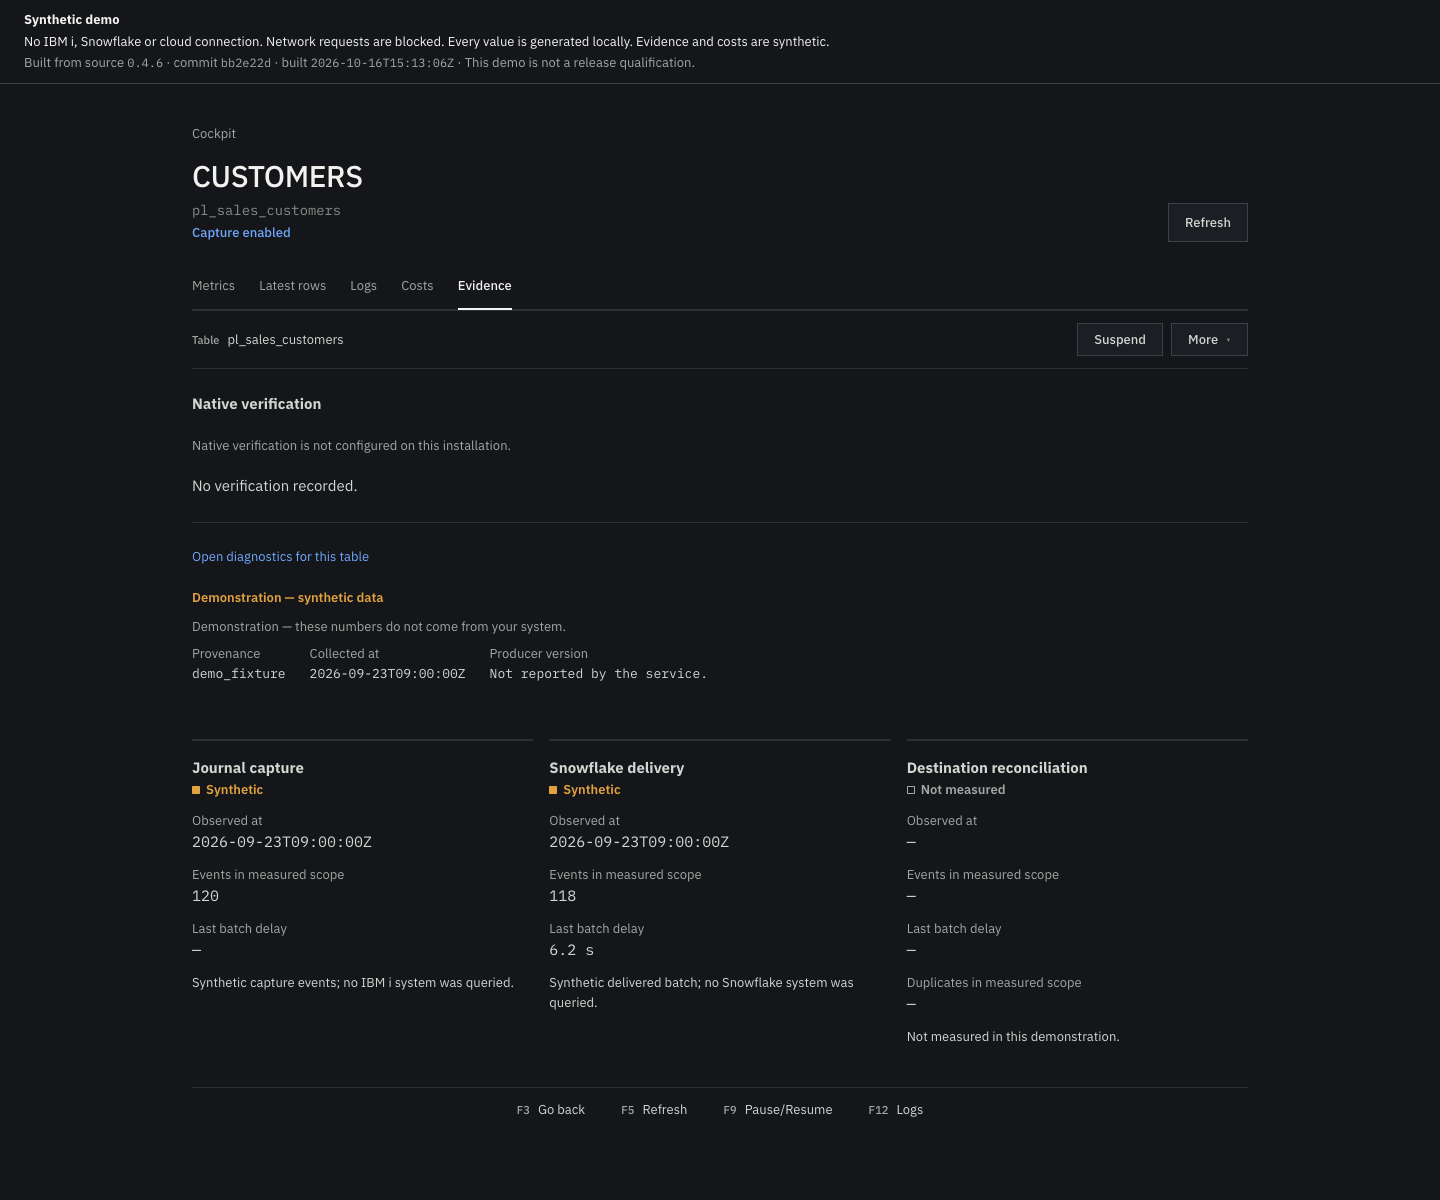
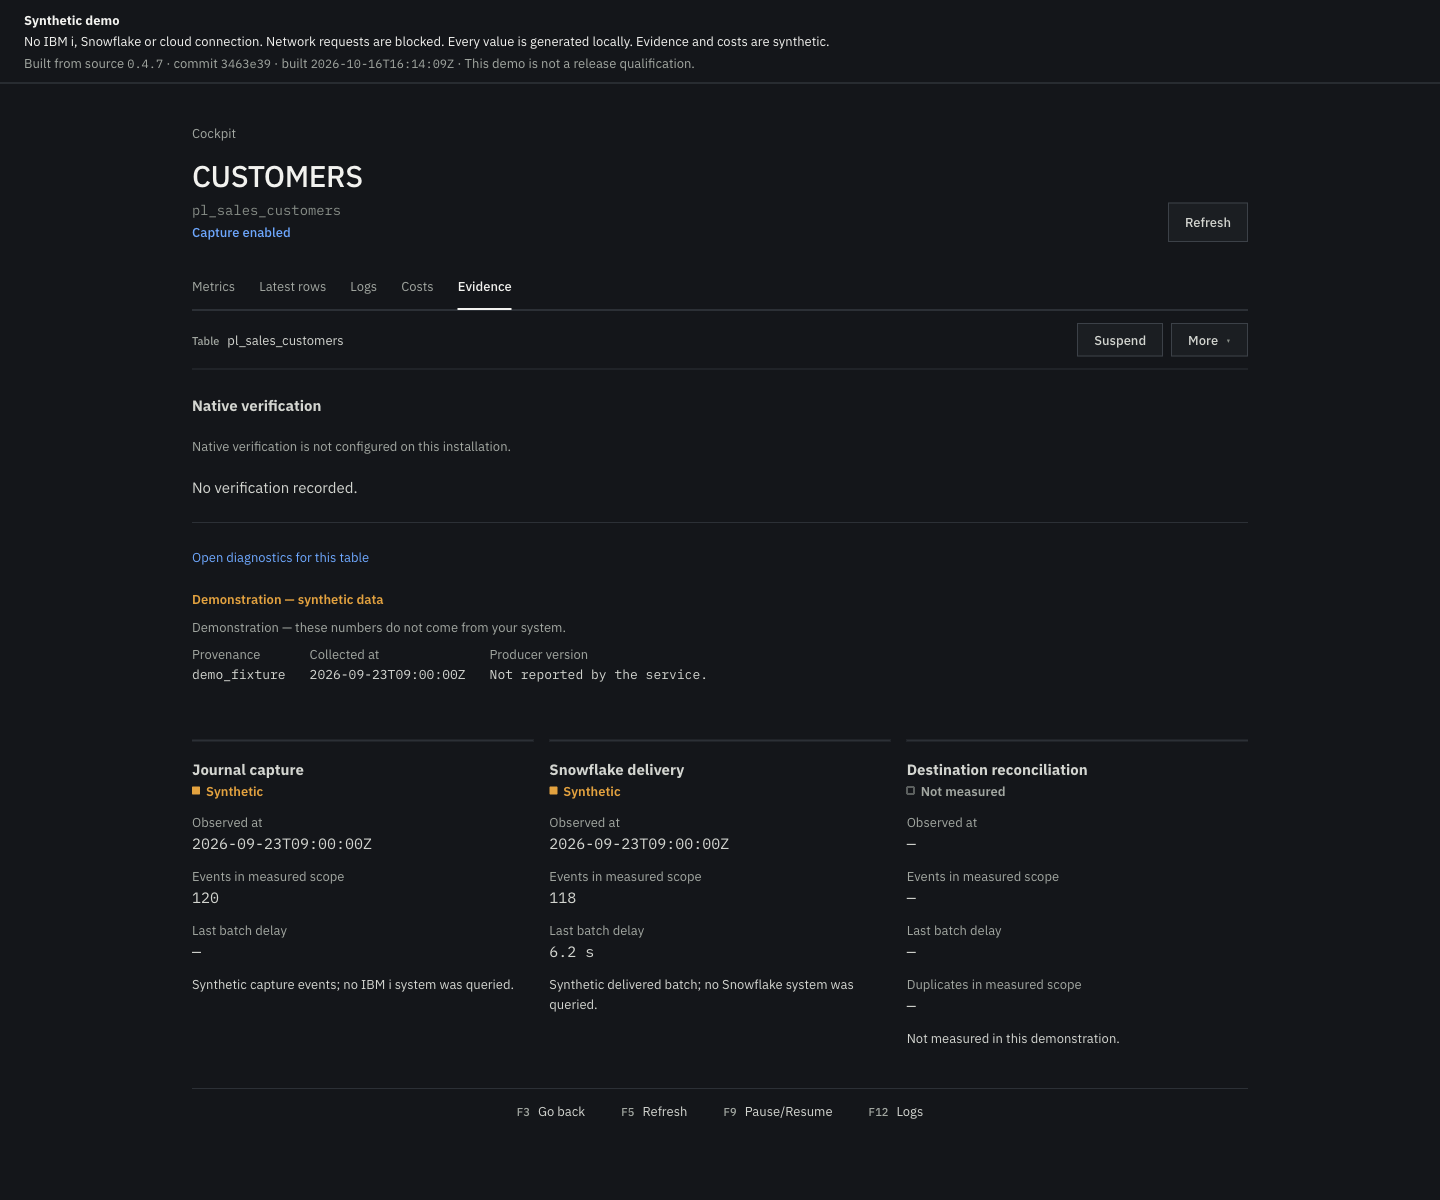
docs(site): capture the 0.4.7 synthetic cockpit

diff --git a/site/index.html b/site/index.html
@@ -49,7 +49,7 @@
     <div class="hero__aside">
       <figure class="product-frame hero__figure">
         <picture><source srcset="assets/cockpit-evidence-strip-dark.png" media="(prefers-color-scheme: dark)"><img src="assets/cockpit-evidence-strip-light.png" width="1220" height="420" fetchpriority="high" alt="Quadringent cockpit, Evidence tab of a synthetic demo table, cropped to its three readings: journal capture shows 120 events and Snowflake delivery 118 events, both marked Synthetic, and destination reconciliation is marked Not measured."></picture>
-        <figcaption>Demonstration, synthetic data, source <span class="mono">0.4.6</span>. <a href="assets/cockpit-evidence-light.png">Full capture</a>. <a href="#try">Run it yourself, no setup</a>.</figcaption>
+        <figcaption>Demonstration, synthetic data, source <span class="mono">0.4.7</span>. <a href="assets/cockpit-evidence-light.png">Full capture</a>. <a href="#try">Run it yourself, no setup</a>.</figcaption>
       </figure>
       <div class="poc">
         <h2 class="poc__title">What a POC touches</h2>
